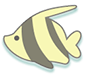
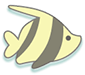
fixed fish orientation

diff --git a/App.tsx b/App.tsx
@@ -1,9 +1,4 @@
-
-import { StyleSheet, Text, View } from "react-native";
-import Background from "./components/background";
 import { fetchFishData } from "./firebase/fish_api";
-
-
 import { StatusBar } from 'expo-status-bar';
 import { Image, ImageBackground, StyleSheet, Text, View, Dimensions } from 'react-native';
 import { TouchableWithoutFeedback, TouchableHighlight, Animated } from 'react-native';
